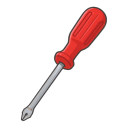
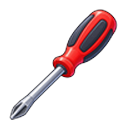
Иконки: ещё 9 перерисованы Codex и поставлены по выбору владельца (манометр, заплатки, отвёртка, разводной и торцевой ключи, тензиометр, маслёнка, зарядное, насос); выложено (Pages da63debf), exe пересобран

Changed region(s): [[0.0625, 0.0312, 0.9375, 0.9688]]

diff --git a/AGENTS.md b/AGENTS.md
@@ -491,8 +491,12 @@ python i18n_work/build_lang.py       # перевод полон
   Решение владельца: **поставлены** новые `tool_allen.png`, `tool_brush.png`, `tool_bucket.png`; мультиметр и спицевой ключ
   оставлены старые (варианты Codex — `*_codex_rejected.png` в папке). Новые иконки Codex рисует мельче — при установке предмет
   вписан в 112 px из 128 по bbox, как у остальных. Старые — `art_tests/retired/tool_*_before_codex_2410b.png`. asset_check,
-  selftest — OK; **выложено** (Pages 42e150c7, web_smoke 20/0). Третья партия (манометр, заплатки, отвёртка, разводной и
-  торцевой ключи — BRIEF3.md) заказана по просьбе владельца. (assets/tool_allen.png, tool_brush.png, tool_bucket.png,
+  selftest — OK; **выложено** (Pages 42e150c7, web_smoke 20/0). Затем по просьбе владельца перерисованы и **поставлены**
+  ещё 9 (BRIEF3.md: манометр `gauge`, заплатки `patch`, отвёртка `screw`, разводной `wrench`, торцевой `socket`; BRIEF4.md:
+  тензиометр, маслёнка `lube`, зарядное `charger`, насос `pump`) — у старых были срезаны концы по краю кадра. Итого 12 из 20
+  иконок новые; без замены: hands, dial (Codex 24.10 утром), multimeter, spoke_key (владелец оставил старые), cloth, lever,
+  pencil, tape. Лист после замены — `art_tests/codex_icons2/_all_icons_after.png`. **Выложено** (Pages da63debf, web_smoke
+  20/0); exe пересобран после иконок (selftest внутри exe — код 0). (assets/tool_allen.png, tool_brush.png, tool_bucket.png,
   art_tests/codex_icons2/, AGENTS.md)
 - 2026-10-24 — Claude (Fable 5.1) — **exe пересобран** (`dist/WheelsAndBones.exe`, те же опции, что в build_exe.bat; прежний был
   от 18.10). Размер 64 → 129 МБ: в `assets/` теперь кадры поворота всех колясок (jpg + маски), полные и LOD-модели, новые
